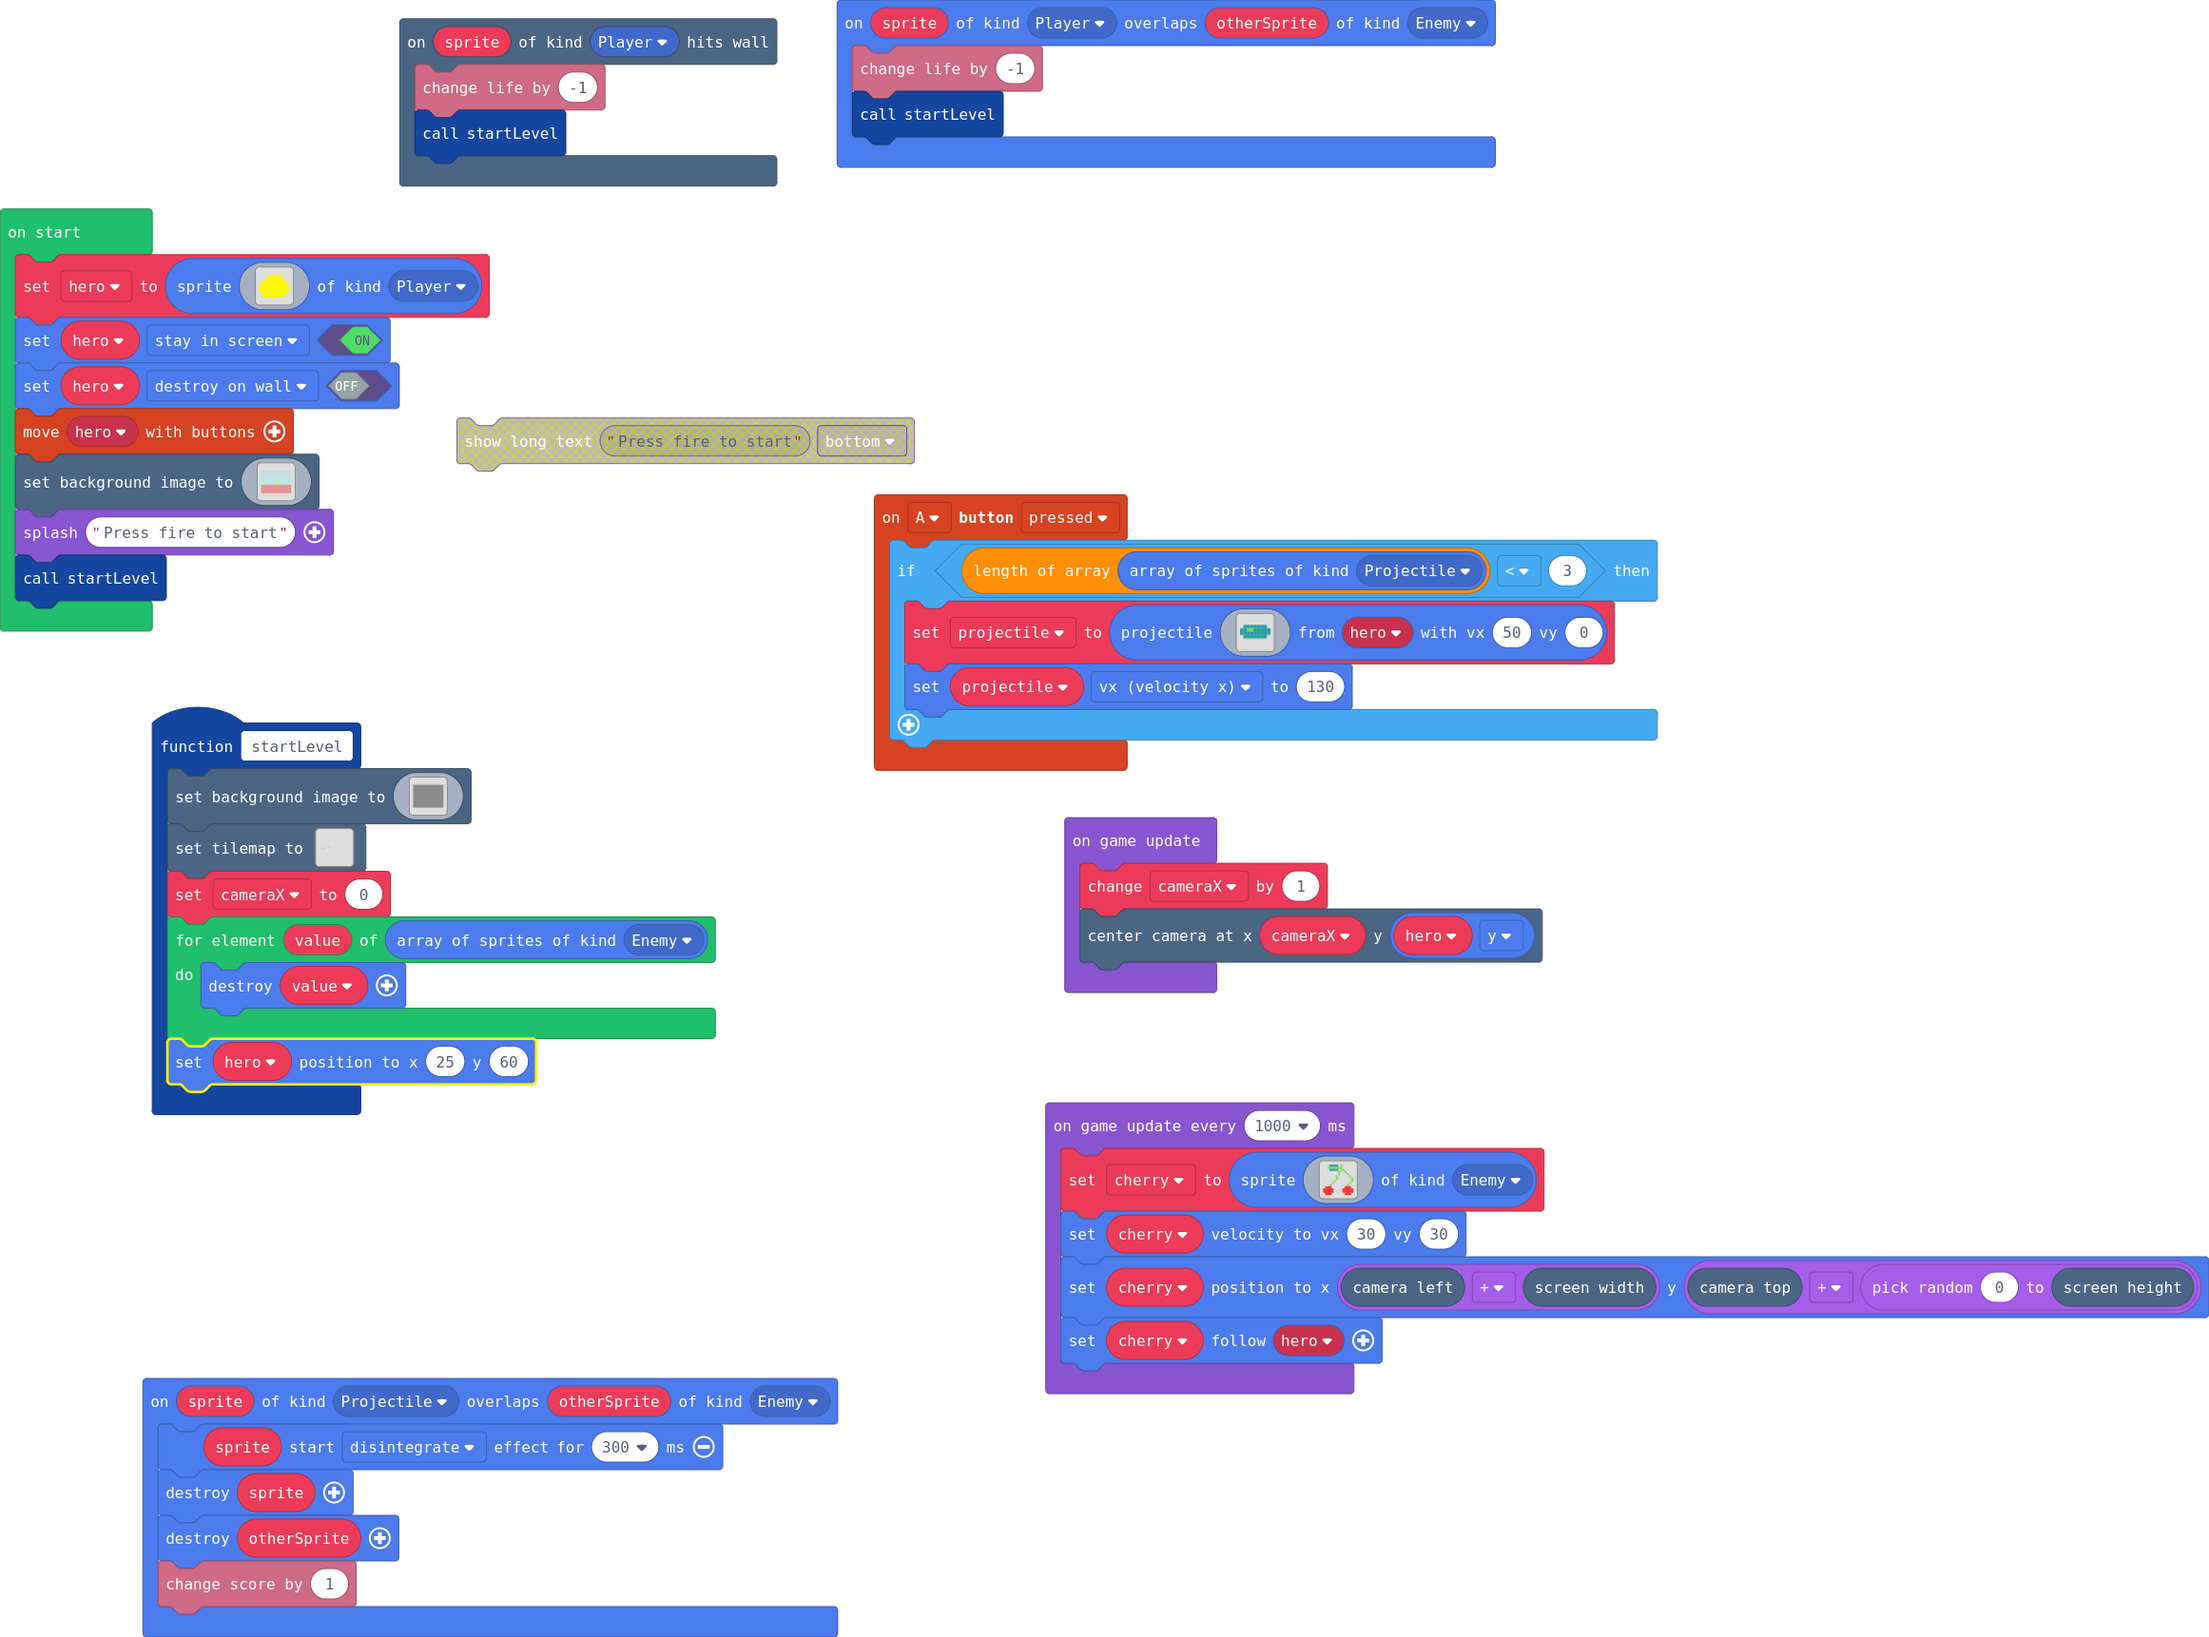
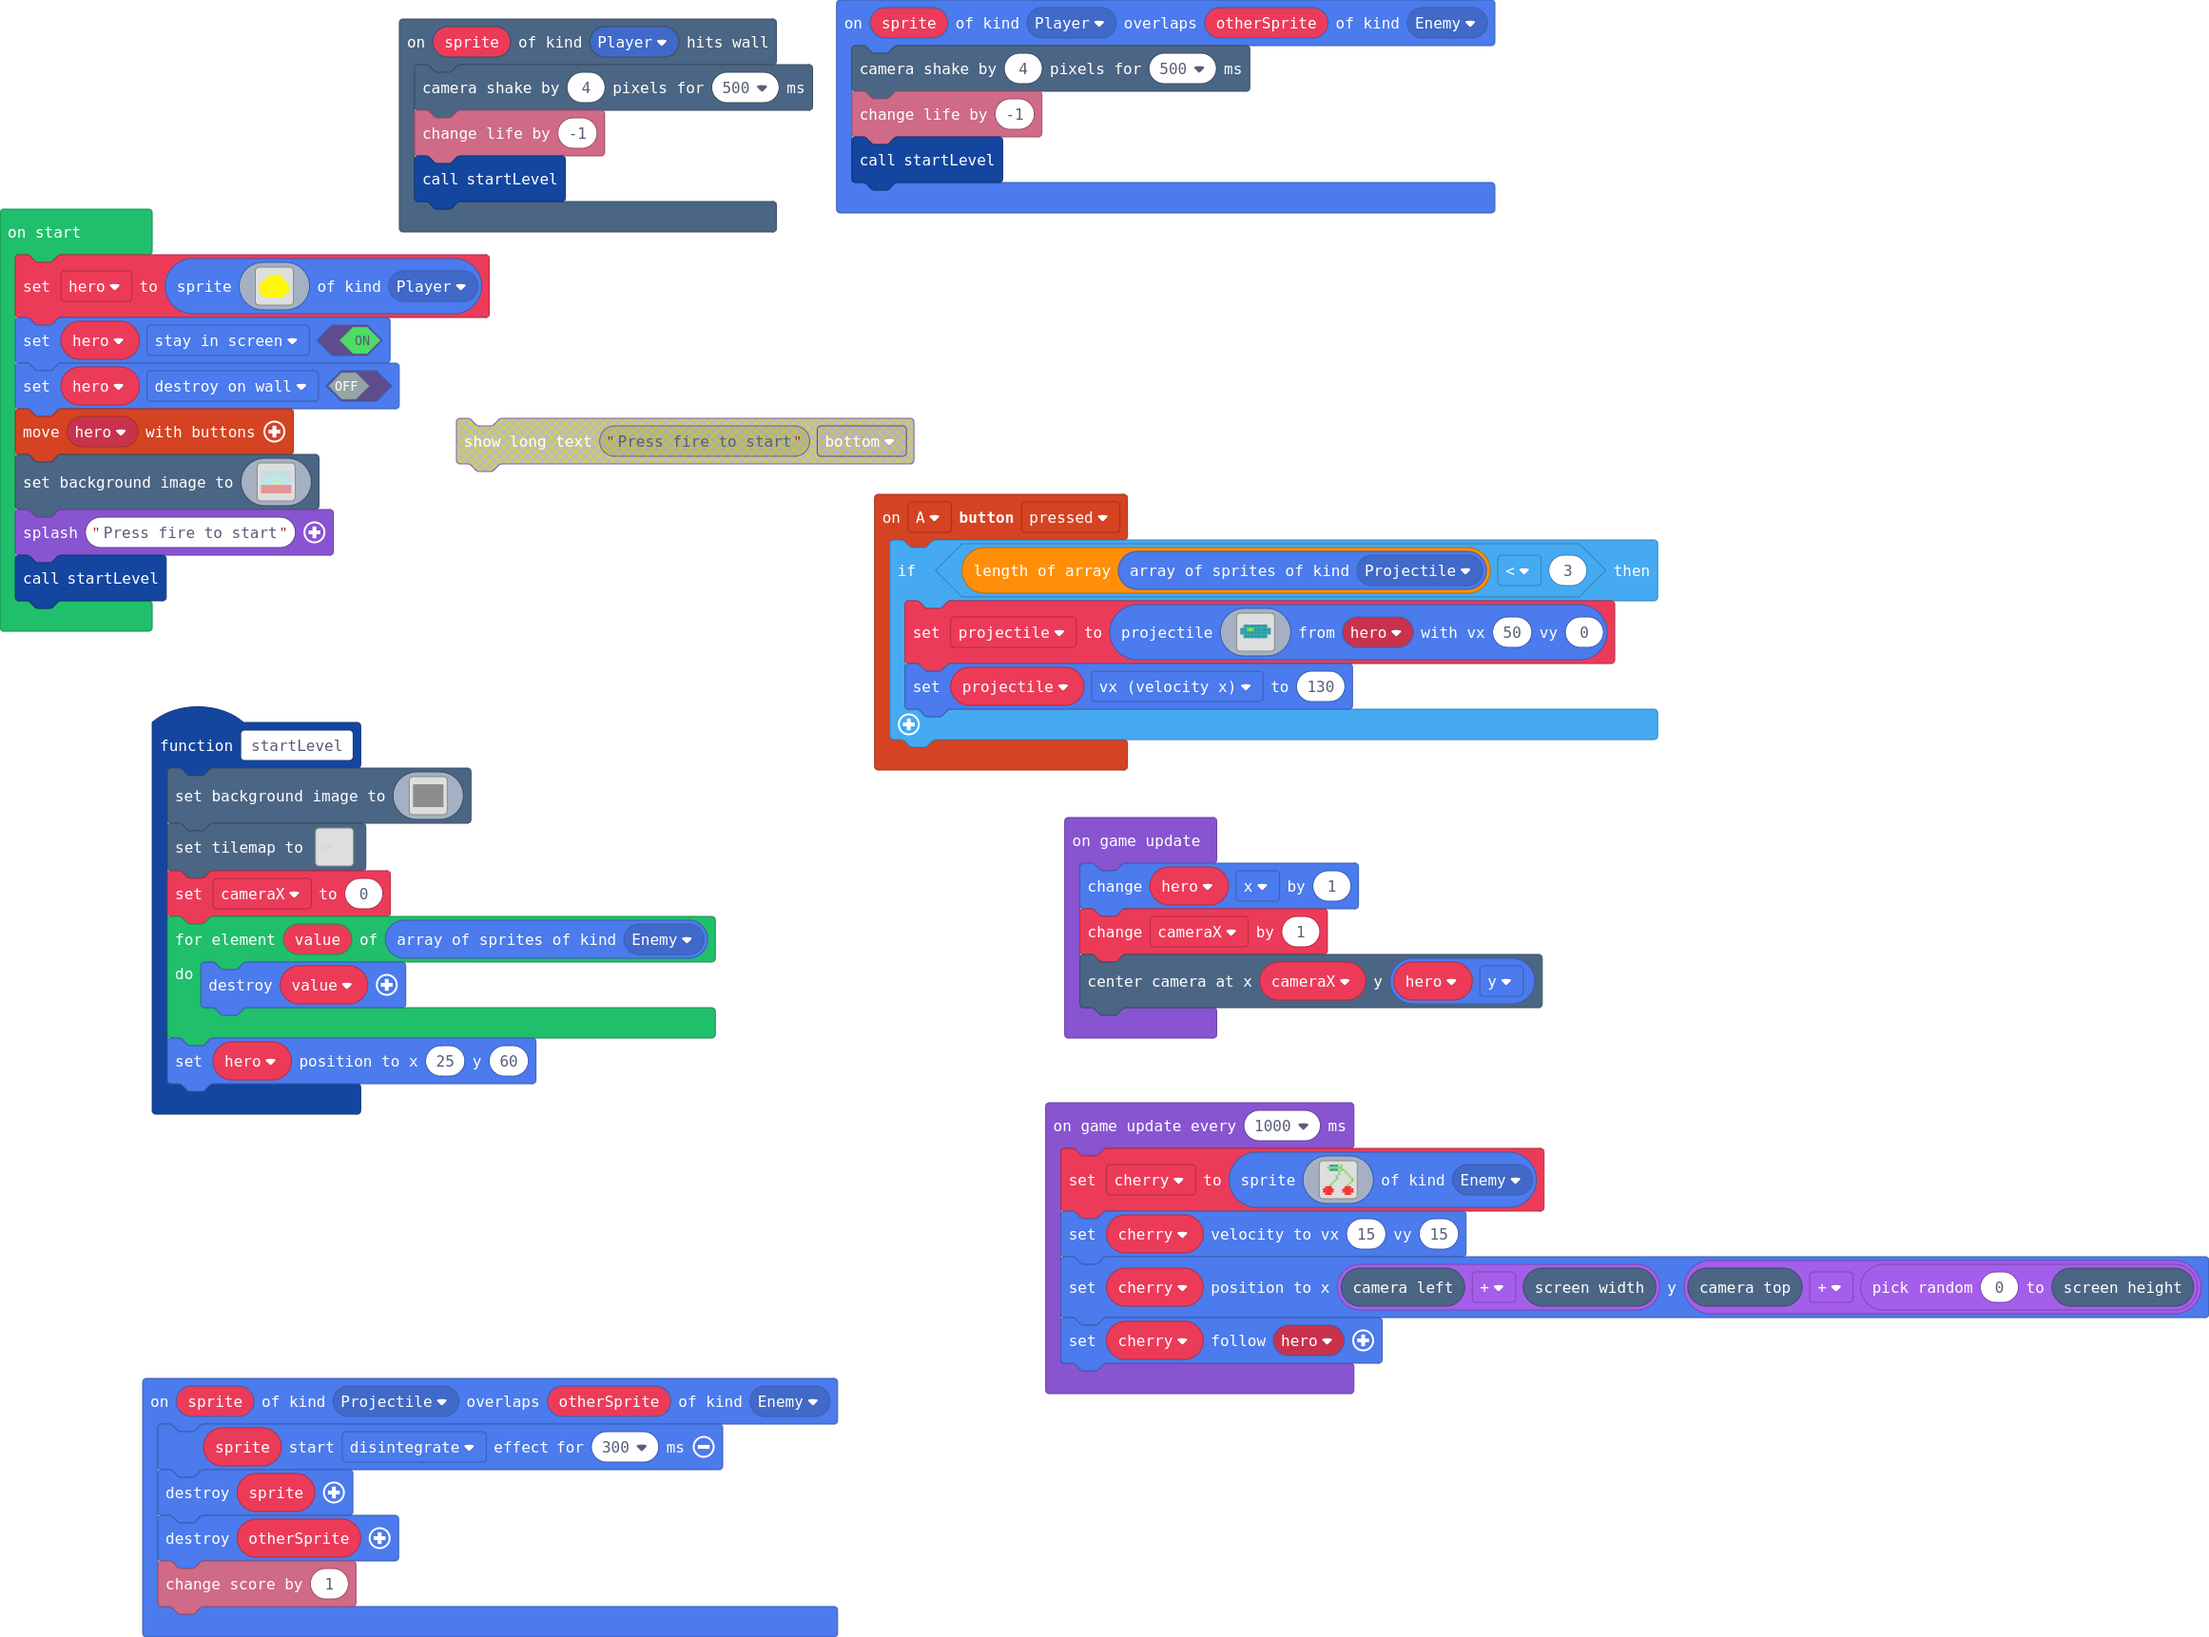
Cambios menores

diff --git a/main.ts b/main.ts
@@ -269,6 +269,33 @@ namespace myTiles {
 4 4 4 4 4 4 4 4 4 4 4 4 4 2 2 2 
 `
 }
+scene.onHitWall(SpriteKind.Player, function (sprite) {
+    scene.cameraShake(4, 500)
+    info.changeLifeBy(-1)
+    startLevel()
+})
+sprites.onOverlap(SpriteKind.Projectile, SpriteKind.Enemy, function (sprite, otherSprite) {
+    sprite.startEffect(effects.disintegrate, 300)
+    sprite.destroy()
+    otherSprite.destroy()
+    info.changeScoreBy(1)
+})
+controller.A.onEvent(ControllerButtonEvent.Pressed, function () {
+    if (sprites.allOfKind(SpriteKind.Projectile).length < 3) {
+        projectile = sprites.createProjectileFromSprite(img`
+. 6 6 6 6 6 6 6 . 
+6 6 7 7 6 6 6 6 6 
+6 6 6 6 6 6 6 6 6 
+. 6 6 6 6 6 6 6 . 
+`, hero, 50, 0)
+        projectile.vx = 130
+    }
+})
+sprites.onOverlap(SpriteKind.Player, SpriteKind.Enemy, function (sprite, otherSprite) {
+    scene.cameraShake(4, 500)
+    info.changeLifeBy(-1)
+    startLevel()
+})
 function startLevel () {
     scene.setBackgroundImage(img`
 f f f f f f f f f f f f f f f f f f f f f f f f f f f f f f f f f f f f f f f f f f f f f f f f f f f f f f f f f f f f f f f f f f f f f f f f f f f f f f f f f f f f f f f f f f f f f f f f f f f f f f f f f f f f f f f f f f f f f f f f f f f f f f f f f f f f f f f f f f f f f f f f f f f f f f f f f f f f f f f f 
@@ -421,34 +448,9 @@ f f f f f f f f f f f f f f f f f f f f f f f f f f f f f f f f f f f f f f f f 
     }
     hero.setPosition(25, 60)
 }
-scene.onHitWall(SpriteKind.Player, function (sprite) {
-    info.changeLifeBy(-1)
-    startLevel()
-})
-sprites.onOverlap(SpriteKind.Projectile, SpriteKind.Enemy, function (sprite, otherSprite) {
-    sprite.startEffect(effects.disintegrate, 300)
-    sprite.destroy()
-    otherSprite.destroy()
-    info.changeScoreBy(1)
-})
-controller.A.onEvent(ControllerButtonEvent.Pressed, function () {
-    if (sprites.allOfKind(SpriteKind.Projectile).length < 3) {
-        projectile = sprites.createProjectileFromSprite(img`
-. 6 6 6 6 6 6 6 . 
-6 6 7 7 6 6 6 6 6 
-6 6 6 6 6 6 6 6 6 
-. 6 6 6 6 6 6 6 . 
-`, hero, 50, 0)
-        projectile.vx = 130
-    }
-})
-sprites.onOverlap(SpriteKind.Player, SpriteKind.Enemy, function (sprite, otherSprite) {
-    info.changeLifeBy(-1)
-    startLevel()
-})
 let cherry: Sprite = null
-let projectile: Sprite = null
 let cameraX = 0
+let projectile: Sprite = null
 let hero: Sprite = null
 hero = sprites.create(img`
 . . . . . 5 5 5 5 5 5 5 . . . . 
@@ -592,6 +594,7 @@ scene.setBackgroundImage(img`
 game.splash("Press fire to start")
 startLevel()
 game.onUpdate(function () {
+    hero.x += 1
     cameraX += 1
     scene.centerCameraAt(cameraX, hero.y)
 })
@@ -612,7 +615,7 @@ game.onUpdateInterval(1000, function () {
 2 2 2 2 2 . . . . 2 2 2 2 2 
 . 2 2 2 . . . . . . 2 2 2 . 
 `, SpriteKind.Enemy)
-    cherry.setVelocity(30, 30)
+    cherry.setVelocity(15, 15)
     cherry.setPosition(scene.cameraLeft() + scene.screenWidth(), scene.cameraTop() + Math.randomRange(0, scene.screenHeight()))
     cherry.follow(hero)
 })
